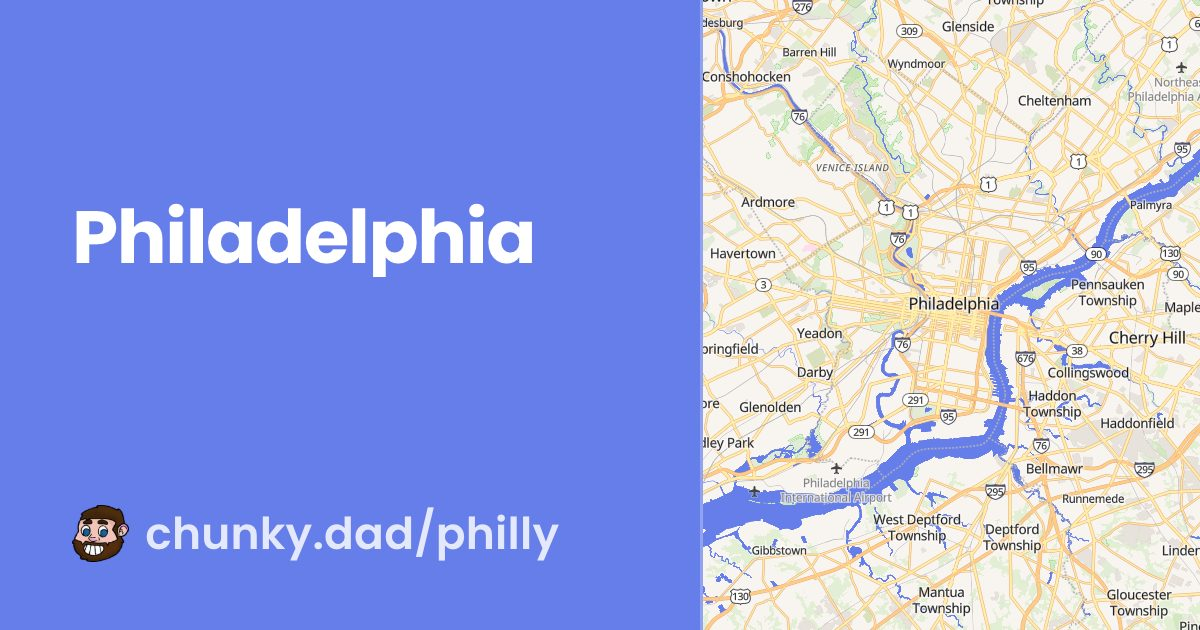
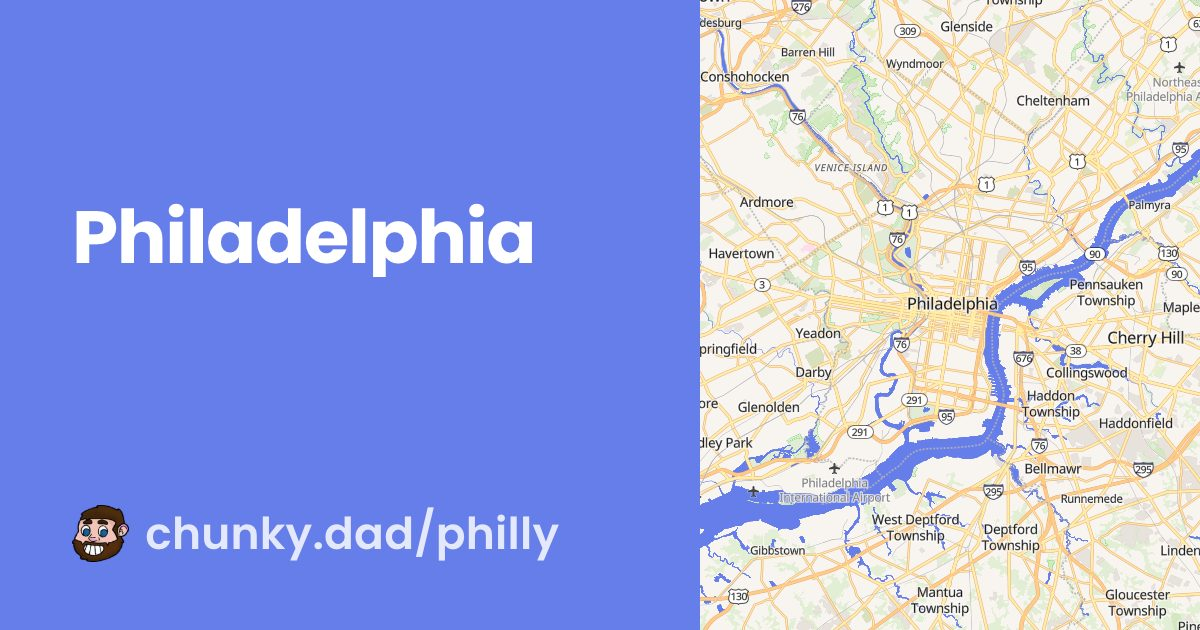
No seam between the map and the card
The divider rule went the same way as the gradient before it: the map simply
ends and the ground begins. It reads better than either, helped by the water
already being recoloured to the brand purple, so the Hudson runs straight into
the card on the NYC one.

Doing this exposed a gap in the render gate. A place card has no event data to
hash, so a CSS-only change to it is invisible — the first run after this edit
reported "0 to render". Bumping OG_TEMPLATE_VERSION would have caught it, but
that knob busts every card, and 149 event cards render pixel-for-pixel
identically through a change to `body.place` rules; it would have rewritten the
?v= on every event stub for nothing.

So the city/home layout gets its own version alongside it. Bumping that
re-rendered 25 and changed 24 — home came back byte-identical, since it has no
map to lose a border from, and writeIfChanged declined to write it.

Claude-Session: https://claude.ai/code/session_01QpPvhx88qaX3FdiLUqKKqP

Changed region(s): [[0.555, 0.0, 1.0, 1.0]]

diff --git a/tools/og-card.js b/tools/og-card.js
@@ -66,6 +66,18 @@ const AURORA_FALLBACK = { c1: '#667eea', c2: '#ff6b6b', c3: '#2a2c4d' };
 // mixes it into the cache-busting hash for exactly that reason.
 const OG_TEMPLATE_VERSION = 2;
 
+// The same knob for the city/home layout alone.
+//
+// A change to the `body.place` rules — the map taking the right half, the seam
+// between it and the ground, how the name steps down — leaves event cards
+// rendering pixel-for-pixel identical, so bumping OG_TEMPLATE_VERSION for it
+// would re-render all 149 of them and rewrite the `?v=` on every event stub to
+// no purpose. Place cards carry no event data to hash, so without a version of
+// their own a pure-CSS change to them is invisible to the render gate.
+//
+// 2: dropped the gradient fade and then the divider rule; venue pins.
+const OG_PLACE_TEMPLATE_VERSION = 2;
+
 // Bootstrap Icons geometry, inlined — same paths the cards use.
 const OG_ICONS = {
     clock: [
@@ -925,9 +937,10 @@ ${m ? '<link rel="stylesheet" href="https://unpkg.com/maplibre-gl@5.24.0/dist/ma
     width: 500px;
     height: auto;
     border-radius: 0;
-    /* a clean edge, not a gradient smear across the artwork */
+    /* no seam at all: no gradient smear, and no rule either — the map simply
+       ends and the ground begins */
     box-shadow: none;
-    border-left: 3px solid rgba(255, 255, 255, 0.20);
+    border: 0;
   }
   body.place:not(.no-map) .row span { max-width: 560px; }
   /* the subtitle is a tagline, not a time or a venue — the clock glyph beside
@@ -964,6 +977,7 @@ ${m ? '<link rel="stylesheet" href="https://unpkg.com/maplibre-gl@5.24.0/dist/ma
 
 const api = {
     buildOgCardHtml,
+    OG_PLACE_TEMPLATE_VERSION,
     artboardSize,
     OG_ARTBOARDS,
     formatEventWhen,

diff --git a/tools/generate-og-images.js b/tools/generate-og-images.js
@@ -15,7 +15,7 @@ const LOGO_FILE = path.join(ROOT, 'favicons', 'favicon-96x96.png');
 
 // The card design itself — shared with testing/test-og-event-layouts-calendar.html
 // so the studio previews exactly what ships.
-const { buildOgCardHtml, OG_TEMPLATE_VERSION } = require('./og-card.js');
+const { buildOgCardHtml, OG_TEMPLATE_VERSION, OG_PLACE_TEMPLATE_VERSION } = require('./og-card.js');
 
 // Favicon filenames are derived from the website URL, never from what actually
 // landed on disk — the same contract download-images.js and
@@ -502,7 +502,13 @@ async function main() {
   // calendar outage) must still be able to produce the place cards.
   for (const place of collectPlaceTargets()) {
     place.version = crypto.createHash('md5')
-      .update(JSON.stringify({ card: place.card, template: OG_TEMPLATE_VERSION }))
+      .update(JSON.stringify({
+        card: place.card,
+        template: OG_TEMPLATE_VERSION,
+        // place cards have no event data, so their own layout version is the
+        // only thing that can tell the gate a CSS-only redesign happened
+        placeTemplate: OG_PLACE_TEMPLATE_VERSION
+      }))
       .digest('hex').slice(0, 8);
     targets.push(place);
   }

diff --git a/palm-springs/index.html b/palm-springs/index.html
@@ -86,11 +86,11 @@
   <meta property="og:title" content="Palm Springs - chunky.dad Bear Guide">
   <meta property="og:description" content="Complete gay bear guide to Palm Springs - events, bars, and the hottest bear scene">
   <meta property="og:url" content="https://chunky.dad/palm-springs/">
-  <meta property="og:image" content="https://chunky.dad/img/og/city/palm-springs.jpg?v=0e400e43">
+  <meta property="og:image" content="https://chunky.dad/img/og/city/palm-springs.jpg?v=6b59812c">
   <meta name="twitter:card" content="summary_large_image">
   <meta name="twitter:title" content="Palm Springs - chunky.dad Bear Guide">
   <meta name="twitter:description" content="Complete gay bear guide to Palm Springs - events, bars, and the hottest bear scene">
-  <meta name="twitter:image" content="https://chunky.dad/img/og/city/palm-springs.jpg?v=0e400e43">
+  <meta name="twitter:image" content="https://chunky.dad/img/og/city/palm-springs.jpg?v=6b59812c">
 </head>
 <body>
         <header>

diff --git a/birmingham/index.html b/birmingham/index.html
@@ -86,11 +86,11 @@
   <meta property="og:title" content="Birmingham - chunky.dad Bear Guide">
   <meta property="og:description" content="Complete gay bear guide to Birmingham - events, bars, and the hottest bear scene">
   <meta property="og:url" content="https://chunky.dad/birmingham/">
-  <meta property="og:image" content="https://chunky.dad/img/og/city/birmingham.jpg?v=8c2b5cdf">
+  <meta property="og:image" content="https://chunky.dad/img/og/city/birmingham.jpg?v=7318db74">
   <meta name="twitter:card" content="summary_large_image">
   <meta name="twitter:title" content="Birmingham - chunky.dad Bear Guide">
   <meta name="twitter:description" content="Complete gay bear guide to Birmingham - events, bars, and the hottest bear scene">
-  <meta name="twitter:image" content="https://chunky.dad/img/og/city/birmingham.jpg?v=8c2b5cdf">
+  <meta name="twitter:image" content="https://chunky.dad/img/og/city/birmingham.jpg?v=7318db74">
 </head>
 <body>
         <header>

diff --git a/san-diego/index.html b/san-diego/index.html
@@ -86,11 +86,11 @@
   <meta property="og:title" content="San Diego - chunky.dad Bear Guide">
   <meta property="og:description" content="Complete gay bear guide to San Diego - events, bars, and the hottest bear scene">
   <meta property="og:url" content="https://chunky.dad/san-diego/">
-  <meta property="og:image" content="https://chunky.dad/img/og/city/san-diego.jpg?v=d51c6531">
+  <meta property="og:image" content="https://chunky.dad/img/og/city/san-diego.jpg?v=11493360">
   <meta name="twitter:card" content="summary_large_image">
   <meta name="twitter:title" content="San Diego - chunky.dad Bear Guide">
   <meta name="twitter:description" content="Complete gay bear guide to San Diego - events, bars, and the hottest bear scene">
-  <meta name="twitter:image" content="https://chunky.dad/img/og/city/san-diego.jpg?v=d51c6531">
+  <meta name="twitter:image" content="https://chunky.dad/img/og/city/san-diego.jpg?v=11493360">
 </head>
 <body>
         <header>

diff --git a/philly/index.html b/philly/index.html
@@ -86,11 +86,11 @@
   <meta property="og:title" content="Philadelphia - chunky.dad Bear Guide">
   <meta property="og:description" content="Complete gay bear guide to Philadelphia - events, bars, and the hottest bear scene">
   <meta property="og:url" content="https://chunky.dad/philly/">
-  <meta property="og:image" content="https://chunky.dad/img/og/city/philly.jpg?v=79ab6bb8">
+  <meta property="og:image" content="https://chunky.dad/img/og/city/philly.jpg?v=c8263ccf">
   <meta name="twitter:card" content="summary_large_image">
   <meta name="twitter:title" content="Philadelphia - chunky.dad Bear Guide">
   <meta name="twitter:description" content="Complete gay bear guide to Philadelphia - events, bars, and the hottest bear scene">
-  <meta name="twitter:image" content="https://chunky.dad/img/og/city/philly.jpg?v=79ab6bb8">
+  <meta name="twitter:image" content="https://chunky.dad/img/og/city/philly.jpg?v=c8263ccf">
 </head>
 <body>
         <header>

diff --git a/ptown/index.html b/ptown/index.html
@@ -86,11 +86,11 @@
   <meta property="og:title" content="Provincetown - chunky.dad Bear Guide">
   <meta property="og:description" content="Complete gay bear guide to Provincetown - events, bars, and the hottest bear scene">
   <meta property="og:url" content="https://chunky.dad/ptown/">
-  <meta property="og:image" content="https://chunky.dad/img/og/city/ptown.jpg?v=1df89e4a">
+  <meta property="og:image" content="https://chunky.dad/img/og/city/ptown.jpg?v=4511ff4a">
   <meta name="twitter:card" content="summary_large_image">
   <meta name="twitter:title" content="Provincetown - chunky.dad Bear Guide">
   <meta name="twitter:description" content="Complete gay bear guide to Provincetown - events, bars, and the hottest bear scene">
-  <meta name="twitter:image" content="https://chunky.dad/img/og/city/ptown.jpg?v=1df89e4a">
+  <meta name="twitter:image" content="https://chunky.dad/img/og/city/ptown.jpg?v=4511ff4a">
 </head>
 <body>
         <header>

diff --git a/brighton/index.html b/brighton/index.html
@@ -86,11 +86,11 @@
   <meta property="og:title" content="Brighton - chunky.dad Bear Guide">
   <meta property="og:description" content="Complete gay bear guide to Brighton - events, bars, and the hottest bear scene">
   <meta property="og:url" content="https://chunky.dad/brighton/">
-  <meta property="og:image" content="https://chunky.dad/img/og/city/brighton.jpg?v=93edc884">
+  <meta property="og:image" content="https://chunky.dad/img/og/city/brighton.jpg?v=eea12372">
   <meta name="twitter:card" content="summary_large_image">
   <meta name="twitter:title" content="Brighton - chunky.dad Bear Guide">
   <meta name="twitter:description" content="Complete gay bear guide to Brighton - events, bars, and the hottest bear scene">
-  <meta name="twitter:image" content="https://chunky.dad/img/og/city/brighton.jpg?v=93edc884">
+  <meta name="twitter:image" content="https://chunky.dad/img/og/city/brighton.jpg?v=eea12372">
 </head>
 <body>
         <header>

diff --git a/portland/index.html b/portland/index.html
@@ -86,11 +86,11 @@
   <meta property="og:title" content="Portland - chunky.dad Bear Guide">
   <meta property="og:description" content="Complete gay bear guide to Portland - events, bars, and the hottest bear scene">
   <meta property="og:url" content="https://chunky.dad/portland/">
-  <meta property="og:image" content="https://chunky.dad/img/og/city/portland.jpg?v=3a3aa76e">
+  <meta property="og:image" content="https://chunky.dad/img/og/city/portland.jpg?v=4ce996dc">
   <meta name="twitter:card" content="summary_large_image">
   <meta name="twitter:title" content="Portland - chunky.dad Bear Guide">
   <meta name="twitter:description" content="Complete gay bear guide to Portland - events, bars, and the hottest bear scene">
-  <meta name="twitter:image" content="https://chunky.dad/img/og/city/portland.jpg?v=3a3aa76e">
+  <meta name="twitter:image" content="https://chunky.dad/img/og/city/portland.jpg?v=4ce996dc">
 </head>
 <body>
         <header>

diff --git a/nola/index.html b/nola/index.html
@@ -86,11 +86,11 @@
   <meta property="og:title" content="New Orleans - chunky.dad Bear Guide">
   <meta property="og:description" content="Complete gay bear guide to New Orleans - events, bars, and the hottest bear scene">
   <meta property="og:url" content="https://chunky.dad/nola/">
-  <meta property="og:image" content="https://chunky.dad/img/og/city/nola.jpg?v=f2f97138">
+  <meta property="og:image" content="https://chunky.dad/img/og/city/nola.jpg?v=55a22553">
   <meta name="twitter:card" content="summary_large_image">
   <meta name="twitter:title" content="New Orleans - chunky.dad Bear Guide">
   <meta name="twitter:description" content="Complete gay bear guide to New Orleans - events, bars, and the hottest bear scene">
-  <meta name="twitter:image" content="https://chunky.dad/img/og/city/nola.jpg?v=f2f97138">
+  <meta name="twitter:image" content="https://chunky.dad/img/og/city/nola.jpg?v=55a22553">
 </head>
 <body>
         <header>

diff --git a/atlanta/index.html b/atlanta/index.html
@@ -86,11 +86,11 @@
   <meta property="og:title" content="Atlanta - chunky.dad Bear Guide">
   <meta property="og:description" content="Complete gay bear guide to Atlanta - events, bars, and the hottest bear scene">
   <meta property="og:url" content="https://chunky.dad/atlanta/">
-  <meta property="og:image" content="https://chunky.dad/img/og/city/atlanta.jpg?v=9a5da0b1">
+  <meta property="og:image" content="https://chunky.dad/img/og/city/atlanta.jpg?v=1325ee5b">
   <meta name="twitter:card" content="summary_large_image">
   <meta name="twitter:title" content="Atlanta - chunky.dad Bear Guide">
   <meta name="twitter:description" content="Complete gay bear guide to Atlanta - events, bars, and the hottest bear scene">
-  <meta name="twitter:image" content="https://chunky.dad/img/og/city/atlanta.jpg?v=9a5da0b1">
+  <meta name="twitter:image" content="https://chunky.dad/img/og/city/atlanta.jpg?v=1325ee5b">
 </head>
 <body>
         <header>

diff --git a/chicago/index.html b/chicago/index.html
@@ -86,11 +86,11 @@
   <meta property="og:title" content="Chicago - chunky.dad Bear Guide">
   <meta property="og:description" content="Complete gay bear guide to Chicago - events, bars, and the hottest bear scene">
   <meta property="og:url" content="https://chunky.dad/chicago/">
-  <meta property="og:image" content="https://chunky.dad/img/og/city/chicago.jpg?v=6e042b6f">
+  <meta property="og:image" content="https://chunky.dad/img/og/city/chicago.jpg?v=8e1a1023">
   <meta name="twitter:card" content="summary_large_image">
   <meta name="twitter:title" content="Chicago - chunky.dad Bear Guide">
   <meta name="twitter:description" content="Complete gay bear guide to Chicago - events, bars, and the hottest bear scene">
-  <meta name="twitter:image" content="https://chunky.dad/img/og/city/chicago.jpg?v=6e042b6f">
+  <meta name="twitter:image" content="https://chunky.dad/img/og/city/chicago.jpg?v=8e1a1023">
 </head>
 <body>
         <header>
